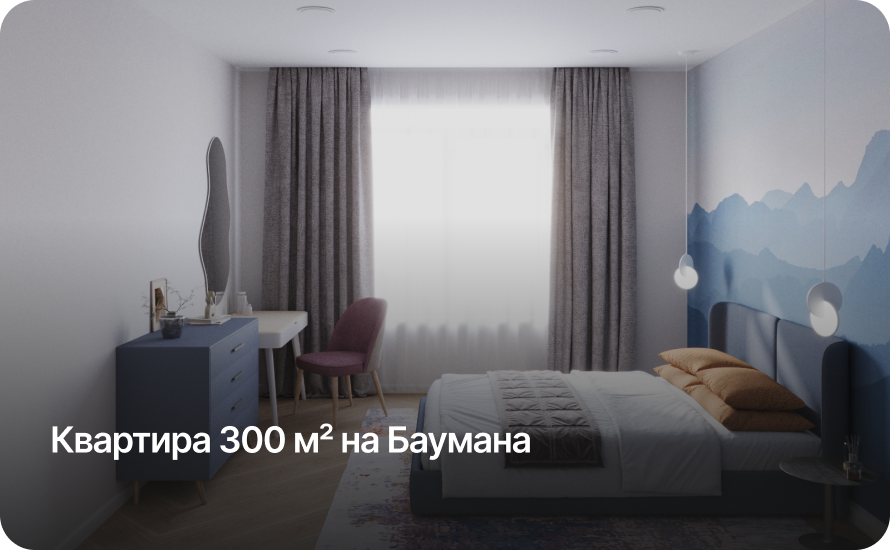
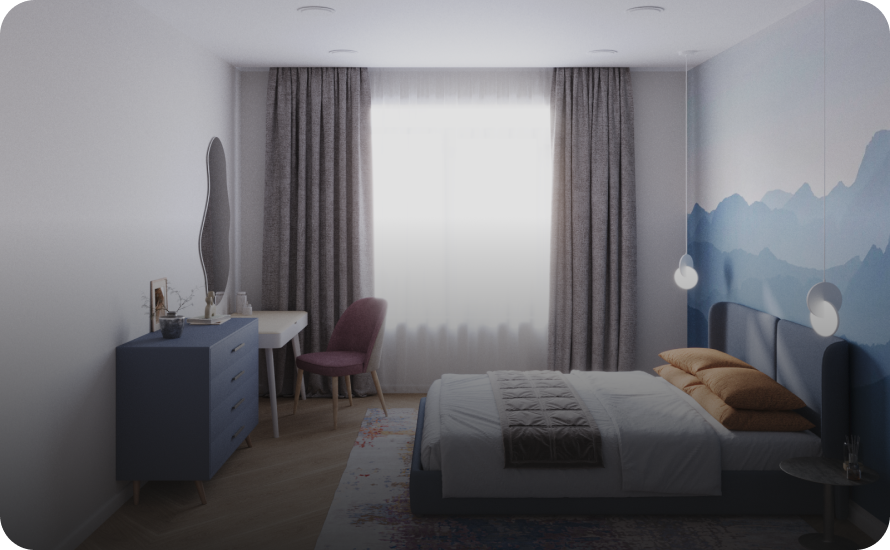
feat: update Works Gallery and Scroller

Changed region(s): [[0.0607, 0.7727, 0.6067, 0.8345]]

diff --git a/src/components/widgets/Works Gallery/WorksGallery.tsx b/src/components/widgets/Works Gallery/WorksGallery.tsx
@@ -1,29 +1,70 @@
-import React from 'react'
+import React, { useState } from 'react'
 import Image from 'next/image'
-import Scroller from '@/components/shared/Scroller/Scroller'
-import work1 from '../../../../public/assets/img/works gallery/work1.png'
-import work2 from '../../../../public/assets/img/works gallery/work2.png'
 import Link from 'next/link'
 
+import work1 from '../../../../public/assets/img/works gallery/work1.png'
+import work2 from '../../../../public/assets/img/works gallery/work2.png'
+
+import Scroller from '@/components/shared/Scroller/Scroller'
+
 function WorksGallery() {
+  const [currentIndex, setCurrentIndex] = useState(0)
+
+  const works = [
+    {
+      image: work1,
+      title: 'Дом из кирпича 560 м² на Барвихе',
+      link: '#'
+    },
+    {
+      image: work2,
+      title: 'Квартира 300 м² на Баумана',
+      link: '#'
+    },
+    {
+      image: work2,
+      title: 'Квартира 300 м² на Баумана',
+      link: '#'
+    },
+    {
+      image: work1,
+      title: 'Дом из кирпича 560 м² на Барвихе',
+      link: '#'
+    }
+  ]
+
+  const moveLeft = () => {
+    setCurrentIndex((prevIndex) => (prevIndex > 0 ? prevIndex - 1 : works.length - 2))
+  }
+
+  const moveRight = () => {
+    setCurrentIndex((prevIndex) => (prevIndex < works.length - 2 ? prevIndex + 1 : 0))
+  }
+
   return (
-    <div className="flex h-[80vh] flex-col items-start gap-2">
-      <div className="flex flex-row items-center gap-8">
-        <div id="variant1">
-          <Image src={work1 as unknown as string} alt="work1" quality={100} />
-          <Link href="#" className={`relative bottom-14 left-9 font-normal text-color-orange`}>
-            Узнать стоимость
-          </Link>
-        </div>
-        <div id="variant2">
-          <Image src={work2 as unknown as string} alt="work2" quality={100} />
-          <Link href="#" className={`relative bottom-14 left-9 font-normal text-color-orange`}>
-            Узнать стоимость
-          </Link>
-        </div>
+    <div className="flex h-[80vh] flex-col items-start gap-4">
+      <div className="flex flex-row items-center gap-8 overflow-hidden">
+        {works.map((work, index) => (
+          <div
+            key={index}
+            className={`relative w-1/2 transform transition-all duration-300 ${
+              index === currentIndex || index === currentIndex + 1
+                ? 'translate-x-0'
+                : 'hidden translate-x-full'
+            }`}
+          >
+            <Image src={work.image as unknown as string} alt={work.title} quality={100} />
+            <div className="absolute bottom-12 left-9 flex w-max flex-col gap-y-4">
+              <h4 className="text-3xl font-semibold leading-tight text-white">{work.title}</h4>
+              <Link href={work.link} className={`font-normal text-color-orange underline`}>
+                Узнать стоимость
+              </Link>
+            </div>
+          </div>
+        ))}
       </div>
       <div className="flex w-full items-center justify-center">
-        <Scroller />
+        <Scroller currentIndex={currentIndex} moveLeft={moveLeft} moveRight={moveRight} />
       </div>
     </div>
   )

diff --git a/src/components/shared/Scroller/Scroller.tsx b/src/components/shared/Scroller/Scroller.tsx
@@ -1,17 +1,14 @@
 import React from 'react'
 import Image from 'next/image'
 import movingArrow from '../../../../public/assets/svg/moveArrow.svg'
-import scroller from '../../../../public/assets/svg/scroller.svg'
 
-function Scroller() {
-  const moveLeft = () => {
-    // Move left logic
-  }
+interface ScrollerProps {
+  currentIndex: number
+  moveLeft: void
+  moverRight: void
+}
 
-  const moveRight = () => {
-    // Move right logic
-  }
-
+function Scroller({ currentIndex, moveLeft, moveRight }) {
   return (
     <div className="flex w-full flex-row items-center justify-between">
       <div className="order-1 flex flex-row justify-around gap-2">
@@ -27,7 +24,23 @@ function Scroller() {
         </button>
       </div>
       <div className="order-2">
-        <Image src={scroller as unknown as string} alt="scroller" width="95" />
+        <svg
+          width="110"
+          height="10"
+          viewBox="0 0 110 10"
+          fill="none"
+          xmlns="http://www.w3.org/2000/svg"
+        >
+          {[...Array(5)].map((_, index) => (
+            <circle
+              key={index}
+              cx={5 + index * 23}
+              cy="5"
+              r="4.5"
+              fill={index === currentIndex ? '#161616' : '#DDDDDD'}
+            />
+          ))}
+        </svg>
       </div>
     </div>
   )
